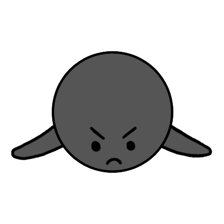
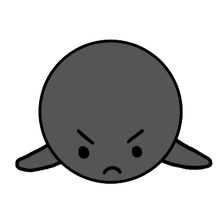
Ladder = artist's exact l5_3 board; short-arm face 1; CSP fixes, v1.18.5
- Transcribed とろろ's l5_3 diagram pixel-for-pixel (detected stone blobs
  and grid spacing from the PNG, then mapped his bottom/right edges onto
  our 9x9): 9 white stones laddered to the bottom edge, black fills the
  last liberty at the mark and takes all nine.
- Swapped face 1 for his short-armed goisi_k1s / goisi_s1s, same
  trim-pad-224 pipeline as faces 2 and 3.
- Two real console errors found while verifying: the panel's inline
  style attribute was blocked by our own style-src 'self' (so that row
  silently lost its 8px margin) -> moved to an .actions-tight class; and
  frame-ancestors is ignored in a <meta> CSP, so anti-framing was never
  actually enforced -> moved to a real header in _headers.

Changed region(s): [[0.0312, 0.1562, 0.9688, 0.8438]]

diff --git a/lessons.js b/lessons.js
@@ -80,18 +80,18 @@
         en: 'A classic capture: keep giving atari from alternating sides so the fleeing group always has exactly one liberty. The stones run diagonally like a staircase until they hit the edge — where there is nowhere left to run. This white staircase has been chased into the corner; fill its last liberty at the mark to take the whole chain.',
         ja: '代表的な取り方: 左右交互にアタリを続け、逃げる石の呼吸点を常に1つにします。石は階段状に斜めに走り、盤の端に着くともう逃げ場がありません。この白は隅まで追い詰められています — 目印の点に打って最後の呼吸点を詰め、まとめて取りましょう。'
       },
-      goal: { th: 'จับกินขั้นบันไดขาวทั้ง 10 เม็ด', en: 'Capture the whole 10-stone white staircase', ja: '白10子の階段をまとめて取る' },
+      goal: { th: 'จับกินขั้นบันไดขาวทั้ง 9 เม็ด', en: 'Capture the whole 9-stone white staircase', ja: '白9子の階段をまとめて取る' },
       size: 9, toMove: B,
-      // artist-reviewed (とろろ, l8_3): a full ladder staircase chased to the board edge, so the
-      // zigzag shape and the "no escape at the edge" point are both visible at a glance
+      // transcribed pixel-for-pixel from the artist's l5_3 diagram (とろろ): a ladder chased
+      // to the bottom edge, so the zigzag and the "no escape at the edge" point both show
       stones: [
         [3, 3, 'W'], [3, 4, 'W'], [4, 4, 'W'], [4, 5, 'W'], [5, 5, 'W'],
-        [5, 6, 'W'], [6, 6, 'W'], [6, 7, 'W'], [7, 7, 'W'], [7, 8, 'W'],
+        [5, 6, 'W'], [6, 6, 'W'], [6, 7, 'W'], [6, 8, 'W'],
         [3, 2, 'B'], [2, 3, 'B'], [4, 3, 'B'], [2, 4, 'B'], [5, 4, 'B'], [3, 5, 'B'],
-        [6, 5, 'B'], [4, 6, 'B'], [7, 6, 'B'], [5, 7, 'B'], [8, 7, 'B'], [6, 8, 'B']
+        [6, 5, 'B'], [4, 6, 'B'], [7, 6, 'B'], [5, 7, 'B'], [7, 7, 'B'], [5, 8, 'B']
       ],
-      markers: [[8, 8, 'target']],
-      check: function (g) { return g.captures[B] >= 10; },
+      markers: [[7, 8, 'target']],
+      check: function (g) { return g.captures[B] >= 9; },
       success: { th: 'จับกินยกแถบ! บันไดใช้ได้เพราะปลายทางไม่มีหมากฝ่ายหนีคอยช่วย — ถ้ามี ต้องไม่ไล่', en: 'The whole chain falls! A ladder only works when no friendly stone waits at the far end — always check before you chase.', ja: '一網打尽！シチョウは、逃げる側の味方の石が先にない時だけ成立します — 追う前に必ず確認しましょう。' }
     },
     {

diff --git a/index.html b/index.html
@@ -4,11 +4,11 @@
   <meta charset="utf-8">
   <meta name="viewport" content="width=device-width, initial-scale=1, viewport-fit=cover">
   <meta http-equiv="Content-Security-Policy"
-        content="default-src 'none'; script-src 'self' 'wasm-unsafe-eval'; worker-src 'self'; connect-src 'self'; style-src 'self'; img-src 'self' data:; base-uri 'none'; form-action 'none'; frame-ancestors 'none'">
+        content="default-src 'none'; script-src 'self' 'wasm-unsafe-eval'; worker-src 'self'; connect-src 'self'; style-src 'self'; img-src 'self' data:; base-uri 'none'; form-action 'none'">
   <meta name="color-scheme" content="light dark">
   <meta name="description" content="เรียนและเล่นโกะ (หมากล้อม / 围棋 / Go) ในเบราว์เซอร์ พร้อมโหมดสอนเล่นทีละขั้น">
   <title>围棋 · Go · หมากล้อม — เรียนและเล่น</title>
-  <link rel="stylesheet" href="styles.css?v=1.18.4">
+  <link rel="stylesheet" href="styles.css?v=1.18.5">
 </head>
 <body>
   <div class="wrap">
@@ -77,7 +77,7 @@
           <span id="lessonProgress" class="progress">1 / 12</span>
           <button id="nextLesson" type="button">Next ›</button>
         </div>
-        <div class="actions" style="margin-top:8px">
+        <div class="actions actions-tight">
           <button id="hintBtn" class="btn" type="button" hidden>Hint</button>
           <button id="gotItBtn" class="btn primary" type="button" hidden>Got it</button>
         </div>
@@ -157,8 +157,8 @@
   </dialog>
 
   <!-- ?v= cache-busts on each release; bump together with VERSION in ui.js / worker.js -->
-  <script src="engine.js?v=1.18.4"></script>
-  <script src="lessons.js?v=1.18.4"></script>
-  <script src="ui.js?v=1.18.4"></script>
+  <script src="engine.js?v=1.18.5"></script>
+  <script src="lessons.js?v=1.18.5"></script>
+  <script src="ui.js?v=1.18.5"></script>
 </body>
 </html>

diff --git a/styles.css b/styles.css
@@ -112,6 +112,7 @@ svg#board:focus-visible { box-shadow: 0 0 0 3px var(--accent); border-radius: 6p
 
 /* actions */
 .actions { display: flex; flex-wrap: wrap; gap: 8px; margin-top: 14px; }
+.actions-tight { margin-top: 8px; } /* was an inline style — blocked by our own style-src 'self' */
 button.btn, .top-controls button, .lesson-nav button, .panel button {
   font: inherit; font-size: 14px; cursor: pointer; border-radius: 10px;
   border: 1px solid var(--line); background: var(--panel); color: var(--ink);
@@ -182,10 +183,10 @@ footer a { color: var(--accent); text-decoration: none; }
    ?v= cache-busts when the guide art changes (these filenames are reused); bump with VERSION. */
 .mascot-row { display: flex; align-items: center; gap: 10px; margin-bottom: 14px; }
 .mascot { width: 62px; height: 46px; flex: none; background: center/contain no-repeat; }
-.mascot[data-state="idle"]  { background-image: url(assets/mascot/idle.png?v=1.18.4); }
-.mascot[data-state="happy"] { background-image: url(assets/mascot/happy.png?v=1.18.4); }
-.mascot[data-state="think"] { background-image: url(assets/mascot/think.png?v=1.18.4); }
-.mascot[data-state="oops"]  { background-image: url(assets/mascot/oops.png?v=1.18.4); }
+.mascot[data-state="idle"]  { background-image: url(assets/mascot/idle.png?v=1.18.5); }
+.mascot[data-state="happy"] { background-image: url(assets/mascot/happy.png?v=1.18.5); }
+.mascot[data-state="think"] { background-image: url(assets/mascot/think.png?v=1.18.5); }
+.mascot[data-state="oops"]  { background-image: url(assets/mascot/oops.png?v=1.18.5); }
 .mascot-msg { font-size: 13.5px; color: var(--ink); margin: 0; min-height: 18px; font-weight: 500; }
 
 @media (prefers-reduced-motion: reduce) {

diff --git a/ui.js b/ui.js
@@ -7,9 +7,10 @@
   'use strict';
   var E = window.GoEngine, LESSONS = window.GoLessons;
   var BLACK = E.BLACK, WHITE = E.WHITE, EMPTY = E.EMPTY;
-  var VERSION = '1.18.4';
+  var VERSION = '1.18.5';
   // shown in the in-app "version history" dialog (newest first)
   var CHANGELOG = [
+    { v: '1.18.5', th: 'บทบันไดใช้ผัง l5_3 ของ とろろ เป๊ะ + รูปหน้า 1 แขนสั้น + แก้ CSP', en: 'Ladder uses とろろ\'s exact l5_3 board + short-arm face 1 + CSP fixes', ja: 'シチョウをとろろ様のl5_3の配石に + 表情1を差し替え + CSP修正' },
     { v: '1.18.4', th: 'บทบันไดเห็นขั้นบันไดจนชนขอบจริง + แก้คำอธิบายบทสแนปแบ็ก (ญี่ปุ่น)', en: 'Ladder lesson now shows the full staircase to the edge + clearer snapback wording', ja: 'シチョウのレッスンを端まで続く階段の形に + ウッテガエシの説明文を修正' },
     { v: '1.18.3', th: 'บทสแนปแบ็กใช้ผังตามแผนภาพของ とろろ เป๊ะ', en: 'Snapback lesson now uses とろろ\'s exact diagram', ja: 'ウッテガエシのレッスンをとろろ様の図の通りの配石に' },
     { v: '1.18.2', th: 'แก้ผังบทเรียน 6/8/9/10 ให้ถูกตามหลักโกะ (ขอบคุณ とろろ) + รูปหน้า 2 แขนสั้น', en: 'Lessons 6/8/9/10 boards corrected per Go theory (thanks とろろ) + short-arm face 2', ja: 'レッスン6/8/9/10の配石を修正（とろろ様に感謝）+ 表情2を差し替え' },

diff --git a/tools/test-lessons.js b/tools/test-lessons.js
@@ -17,7 +17,7 @@ var SOLUTIONS = {
   liberty: [[4, 3], [3, 4], [5, 4]],
   capture: [[4, 5]],
   connect: [[4, 4]],
-  ladder: [[8, 8]],
+  ladder: [[7, 8]],
   noselfatari: [[0, 2]],
   ko: [[4, 4]],
   snapback: [[3, 2]]
@@ -102,7 +102,7 @@ assert(sbG.board[G.idx(sbG, 3, 1)] === 2 && sbG.board[G.idx(sbG, 4, 2)] === 2,
 // is the marked point (artist review: the shape must read as a ladder, not a blob)
 var ldL = lesson('ladder'), ldG = build(ldL), ldT = ldL.markers[0];
 var chain = G.group(ldG, G.idx(ldG, 3, 3));
-assert(chain.stones.length === 10, 'ladder: white staircase is not 10 connected stones');
+assert(chain.stones.length === 9, 'ladder: white staircase is not 9 connected stones');
 assert(chain.liberties.length === 1 && chain.liberties[0] === G.idx(ldG, ldT[0], ldT[1]),
   'ladder: the only liberty is not the marked point');
 var onEdge = chain.stones.some(function (i) {

diff --git a/worker.js b/worker.js
@@ -7,7 +7,7 @@
  * run KataGo nets in neural-worker.js — see kataModel() in ui.js.
  */
 /* global GoEngine, importScripts, postMessage, onmessage */
-importScripts('engine.js?v=1.18.4'); // keep in sync with VERSION (cache-bust)
+importScripts('engine.js?v=1.18.5'); // keep in sync with VERSION (cache-bust)
 var E = GoEngine, EMPTY = E.EMPTY;
 
 function isEye(g, i, color) {
